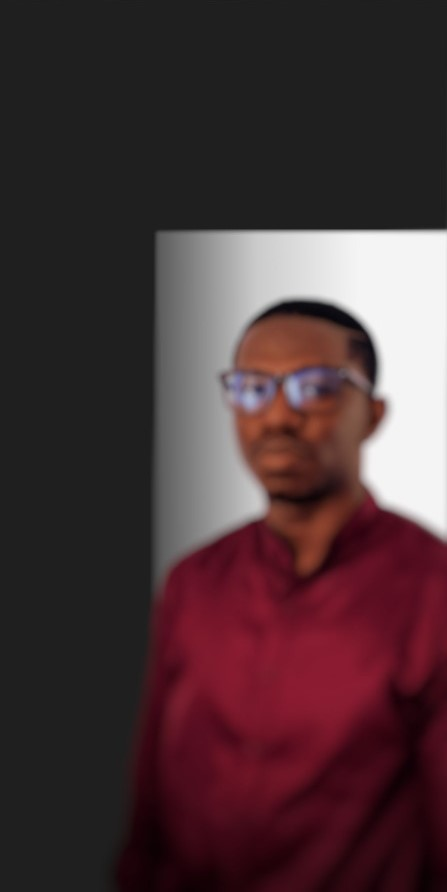
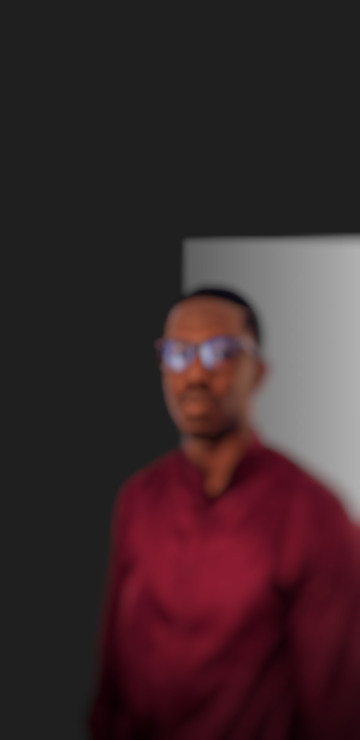
responsive UI

diff --git a/src/components/Header/header.scss b/src/components/Header/header.scss
@@ -5,7 +5,11 @@
 .header_container{
   height: calc(100vh - 10vh);
   display: flex;
-  position: relative;
+    background-size: cover;
+    position: relative;
+  @include tab-screen{
+    background-image: url(../../assets/images/BG-tab.jpg);
+  }
   @include medium-screen{
     flex-grow: 1;
     background-image: url(../../assets/images/BG-mid.jpg);
@@ -21,12 +25,16 @@
   margin-top: 100px;
   z-index: 10;
   @include medium-screen{
-  margin-top: 290px;
-  width: 100%;
+  margin-top: 390px;
+  width: 90%;
   }
+  @include tab-screen{
+    margin-top: 70%;
+  }
+
   @include small-screen{
   width: 85%;
-  margin-top: 0;
+  margin-top: 70%;
   }
 }
 
@@ -43,8 +51,8 @@
 
 .name-intro{
   @include small-screen{
-    position: absolute;
-    top: 430px;
+    // position: absolute;
+    // top: 430px;
     }
 }
 
@@ -64,7 +72,7 @@
   margin-top: 25px;
   opacity: .7;
   @include small-screen{
-  margin-top:540px;
+  // margin-top:540px;
     text-shadow:0px 2px #2b2a2a;
     opacity: .9;
 }
@@ -72,16 +80,21 @@
 
 .jd{
   font-family: "Horizon Bold", "calibri";
-  font-size: 60px;
+  font-size: 6rem;
   position: absolute;
   bottom: 0;
   color: $secondary-color;
+
+  @include tab-screen {
+    font-size: 4rem;
+  }
+
   @include medium-screen{
-    font-size: 40px;
+    font-size: 200%;
   }
 
   @include small-screen{
-    font-size: 25px;
+    font-size: 23px;
     bottom: 0px;
   }
 }
@@ -103,6 +116,7 @@
   display: inline-block;
   margin-left: 16px;
   margin-right: 16px;
+  display: inline-block;
 
   @include medium-screen{
     font-size: 70px;
@@ -177,36 +191,7 @@
     right: 4rem;
   }
 
-  @include medium-screen{
+  @include tab-screen{
     display: none;
-  }
-}
-
-.toggle-sidebar{
- display: none;
- @include small-screen{
-  display: block;
-  position: fixed;
-  top: 2%;
-  z-index: 28;
-  right: 10%;
-  font-size: 2.5rem;
-  color: $highlighter;
-  cursor: pointer;
-}
-}
-
-.overlay{
-  display: none;
-  @include small-screen{
-    display: block;
-    position: fixed;
-    top: 0;
-    bottom: 0;
-    left: 0;
-    right: 0;
-    z-index: 25;
-    background-color: rgba(43, 42, 42, 0.5);
-    backdrop-filter: blur(10px);
   }
 }

diff --git a/src/components/Navbar/Navbar.jsx b/src/components/Navbar/Navbar.jsx
@@ -1,19 +1,23 @@
 import './navbar.scss'
 import {Link} from 'react-router-dom';
+import {FaEllipsisH} from 'react-icons/fa';
 import { useState } from 'react';
 
 const Navbar = () => {
 
+  const [isExpanded, setisExpanded] = useState(false);
 
   return(
     <>
-      <nav className="nav-bar">
+    <FaEllipsisH className= "toggle-sidebar" onClick={()=> setisExpanded(!isExpanded)}/>
+      <nav className={isExpanded ? "nav-bar expanded" : "nav-bar"}>
         <ul className="nav-list">
           <li className="list-item"><Link to="/projects" className="link">Projects</Link></li>
           <li className="list-item"><Link to="/contact" className="link">Contact</Link></li>
           <li className="list-item"><a href="https://drive.google.com/file/d/18JiFm8V2LSvW_0HbVO6U5VvZdDse3n9a/view" target='_blank'rel="noreferrer" className="link" id="cv">Download CV</a></li>
         </ul>
       </nav>
+      <div className={isExpanded ? "overlay expanded" : "overlay"}></div>
     </>
   )
 }

diff --git a/src/components/Navbar/navbar.scss b/src/components/Navbar/navbar.scss
@@ -3,8 +3,15 @@
 
 
 .nav-bar{
-  
+  @include small-screen{
+    display: none;
+    &.expanded{
+      display: block;
+    }
+    }
 }
+
+
 
 .nav-list{
   display: flex;
@@ -12,7 +19,7 @@
   padding-top: 20px;
   @include small-screen{
     position: fixed;
-    top: 30%;
+    top: 50%;
     transform: translateY(-50%);
     z-index: 30;
     height: fit-content;
@@ -61,3 +68,35 @@
     display: inline-block;
   }
 }
+
+.overlay{
+  display: none;
+  @include small-screen{
+    &.expanded{
+      display: block;
+    }
+    display: none;
+    position: fixed;
+    top: 0;
+    bottom: 0;
+    left: 0;
+    right: 0;
+    z-index: 25;
+    background-color: rgba(43, 42, 42, 0.5);
+    backdrop-filter: blur(10px);
+  }
+}
+
+.toggle-sidebar{
+  display: none;
+  @include small-screen{
+   display: block;
+   position: fixed;
+   top: 2%;
+   z-index: 28;
+   right: 10%;
+   font-size: 2.5rem;
+   color: $primary-color;
+   cursor: pointer;
+ }
+ }

diff --git a/src/components/Projects/projects.scss b/src/components/Projects/projects.scss
@@ -67,6 +67,10 @@
   grid-template-columns: repeat(2, 1fr);
   column-gap: 10rem;
   row-gap: 6rem;
+  @include tab-screen{
+  column-gap: 3rem;
+  row-gap: 4rem;
+  }
   @include small-screen{
     display: flex;
     flex-direction: column;
@@ -86,14 +90,17 @@
     }
   }
 
-  &:nth-child(2) p,
-   &:nth-child(4) p{
-      order: 1;
-  }
-  &:nth-child(2) a,
-  &:nth-child(4) a
-  {
-      order: 2;
+  @include small-screen{
+
+    &:nth-child(2) p,
+    &:nth-child(4) p{
+        order: 1;
+    }
+    &:nth-child(2) a,
+    &:nth-child(4) a
+    {
+        order: 2;
+    }
   }
 }
 
@@ -101,6 +108,9 @@
   width: 20rem;
   border-radius: 3rem;
   border: 1px solid rgba(0,0,0,0.1);
+  @include tab-screen{
+    width: 17rem;
+  }
   @include small-screen{
     width: 15rem;
   }

diff --git a/src/components/Header/Header.jsx b/src/components/Header/Header.jsx
@@ -2,13 +2,11 @@ import Navbar from '../Navbar/Navbar';
 import './header.scss';
 import Stack from '../Stack/Stack';
 import ProfilePic from '../../assets/images/Portfolio-image.png'
-import {FaEllipsisH} from 'react-icons/fa';
 
 
 function Header() {
   return (
     <>
-    <FaEllipsisH className= "toggle-sidebar"/>
     <Navbar/>
       <header className='header_container'>
         <div className="landingpage-left">
@@ -23,7 +21,7 @@ function Header() {
           <img src={ProfilePic} alt="profile-pic" />
         </div>
         <p className="jd">Frontend - w<span className="webdev-junction">e</span>b</p>
-        <div className="overlay"></div>
+        
       </header>
     </>
   )

diff --git a/src/components/Contact/contact.scss b/src/components/Contact/contact.scss
@@ -6,7 +6,10 @@
   margin-top: 10rem;
   margin-bottom: 4rem;
   color:  $secondary-color;
-  @include small-screen{
+    @include tab-screen{
+    // font-size: 2rem;
+  }
+    @include small-screen{
     font-size: 2.4rem;
   }
 
@@ -63,6 +66,10 @@ a{
 .contact-details{
   font-size: 2.5rem;
   text-align: end;
+  @include tab-screen{
+  font-size: 2rem;
+    text-align: end;
+  }
   @include small-screen{
   font-size: 1.7rem;
     text-align: end;
@@ -83,6 +90,9 @@ a{
 
   @include large-screen{
     width: 45rem;
+  }
+  @include tab-screen{
+    width: 31rem;
   }
   @include small-screen{
     width: 34rem;

diff --git a/src/mixins.scss b/src/mixins.scss
@@ -6,6 +6,12 @@
   }
 };
 
+@mixin tab-screen{
+  @media screen and (max-width: map-get($breakpoints, tab-screen)){
+    @content;
+  }
+}
+
 @mixin medium-screen {
   @media screen and (max-width: map-get($breakpoints, medium-screen)){
     @content;

diff --git a/src/App.scss b/src/App.scss
@@ -17,7 +17,8 @@ $color-btn: #430c18;
 
 $breakpoints: (
   small-screen: 428px,
-  medium-screen: 752px,
+  medium-screen: 652px,
+  tab-screen: 810px,
   big-screen: 1200px,
   max-screen: 1400px
 )
